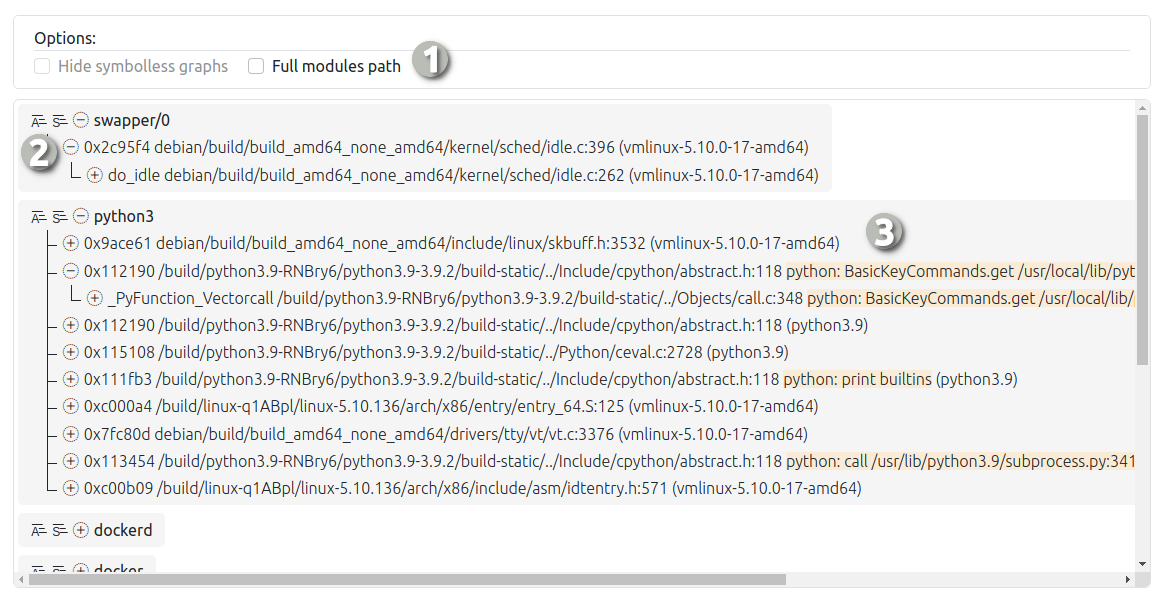
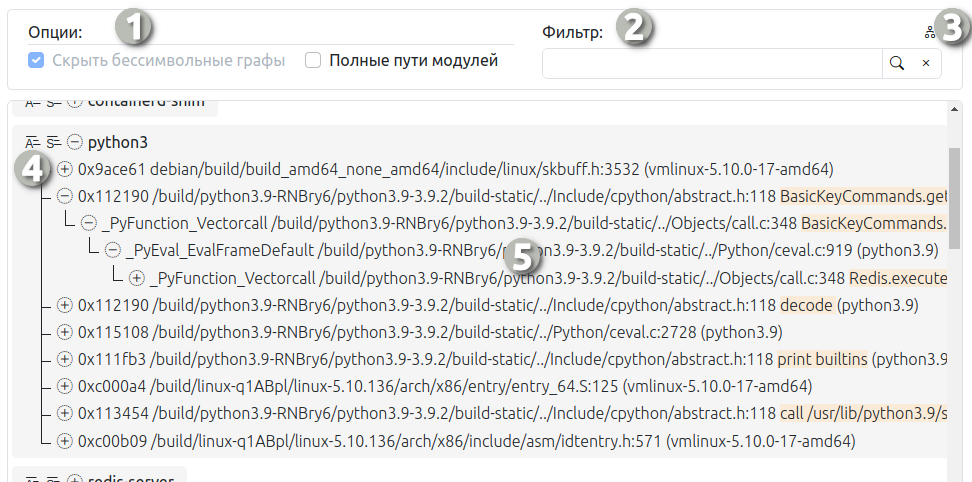
Update 6_snatch.md: call_graph & flame_graph updated

diff --git a/6_snatch.md b/6_snatch.md
@@ -164,15 +164,17 @@
 ### 6.3.5. Графы вызовов
 #### 6.3.5.1. Классический граф вызовов
 
-В процессе первоначальной обработки архива поверхности атаки граф вызовов не создаётся. Чтобы граф вызовов появился в проекте, необходимо нажать на кнопку *Generate* рядом с соответствующим пунктом в меню проекта. Повторное нажатие кнопки до завершения генерации приведет к отмене процесса. По завершении генерации в боковом меню проекта под пунктом *Additional graphs* станет активным пункт *Call-graph* и появится пункт *Python-call-graph* (только при наличии в архиве файла python.log, описано в [граф вызовов python](#python_call_graph)). Для открытия графа вызовов достаточно нажать на данный пункт в меню. После открытия появится новая вкладка с соответствующим названием, а в окне отображения содержимого откроется граф, представленный в виде древовидной структуры:
+В процессе первоначальной обработки архива поверхности атаки граф вызовов не создаётся. Чтобы граф вызовов появился в проекте, необходимо нажать на кнопку *Создать* рядом с соответствующим пунктом в боковом меню. Повторное нажатие кнопки до завершения генерации приведет к отмене процесса. По завершении генерации в боковом меню проекта под пунктом *Дополнительные графы* станет активным пункт *Граф вызовов* и появится пункт *Граф вызовов интерпретаторов* (при наличии в архиве соответствующего лог файла, описано в [граф вызовов интерпретаторов](#interp_call_graph)). Для открытия графа вызовов достаточно нажать на данный пункт в меню. После открытия появится новая вкладка с соответствующим названием, а в окне отображения содержимого откроется граф, представленный в виде древовидной структуры:
 
 <img src=https://raw.githubusercontent.com/ispras/natch/main/images/snatch/snatch_call_graph.png><figcaption>_Граф вызовов_</figcaption>
 
 В данном окне представлены следующие элементы:
 
-1. Чекбоксы опций. *Hide symbolless graphs* прячет из отображаемого графа деревья, не содержащие распознанных символов (если данная опция неактивна, то в текущем проекте все деревья содержат символьную информацию); *Full modules path* задаёт формат отображения имен модулей на графе: сокращенный или полный путь.
-2. Элементы управления графом. Первая кнопка (три горизонтальные черты с буквой "А") раскрывает все ветви графа; кнопка с буквой "S" раскрывает только символизированные ветви. Повторное нажатие кнопки сворачивает граф. Нажатие на кнопки +/- рядом с веткой раскрывает/сворачивает данную ветку в дереве.
-3. Содержимое графа. В корне дерева отображается имя процесса, к которому относится данный граф вызовов. Каждый узел дерева содержит имя вызванной функции (адрес смещения в модуле, при отсутствии символьной информации), путь к файлу исходного кода и строка в файле, относящаяся к началу функции, имя модуля. Синим цветом выделяются функции непосредственно взаимодействовавшие с помеченными данными. При наведении курсора на "синие" функции возникает всплывающая подсказка, содержащая номера строк в исходниках, где происходило взаимодействие с помеченными данным. Бежевым цветом выделяются функции python, вызванные на этом шаге.
+1. Чекбоксы опций. *Скрыть бессимвольные графы* прячет из отображаемого графа деревья, не содержащие распознанных символов (если данная опция неактивна, то в текущем проекте все деревья содержат символьную информацию); *Полные пути модулей* задаёт формат отображения имен модулей на графе: сокращенный или полный путь.
+2. Поле для фильтрации графа. При вводе строки и нажатии на кнопку "лупа" либо клавиши *Enter* происходит фильтрация графа, где заданная строка ищется в полном пути функции, имени модуля и других текстовых параметрах записи. Если запись удалось обнаружить, то на отфильтрованном графе она будет выделена оранжевой рамкой. Если записей, удовлетворяющих условиям фильтра, найдено не было, вместо графа будет выведено сообщение "Элементов, соответствующих фильтру, не найдено". Нажатие на символ "крестик" сбрасывает фильтрацию и возвращает граф к исходному состоянию.
+3. Кнопка включения демонстрации дочерних узлов на отфильтрованном графе. Если этот режим активирован, то для каждого элемента, удовлетворяющего фильтру, будут показаны все дочерние узлы. В противном случае граф будет обрубаться на найденном элементе.
+4. Элементы управления графом. Первая кнопка (три горизонтальные черты с буквой "А") раскрывает все ветви графа; кнопка с буквой "S" раскрывает только символизированные ветви. Повторное нажатие кнопки сворачивает граф. Нажатие на кнопки +/- рядом с веткой раскрывает/сворачивает данную ветку в дереве.
+5. Содержимое графа. В корне дерева отображается имя процесса, к которому относится данный граф вызовов. Каждый узел дерева содержит имя вызванной функции (адрес смещения в модуле, при отсутствии символьной информации), путь к файлу исходного кода и строка в файле, относящаяся к началу функции, имя модуля. Синим цветом выделяются функции непосредственно взаимодействовавшие с помеченными данными. При наведении курсора на "синие" функции возникает всплывающая подсказка, содержащая номера строк в исходниках, где происходило взаимодействие с помеченными данным. Бежевым цветом выделяются функции python, вызванные на этом шаге.
 
 При нажатии на функцию правой кнопкой мыши появляется контекстное меню, из которого можно запустить генерацию вспомогательных данных для [Futag](https://github.com/ispras/Futag), скопировать имя функции и перейти к соответствующей записи в графе вызовов python для "бежевых" функций. Сгенерированные данные для [Futag](https://github.com/ispras/Futag) будут помещены в файл в папке *snatch_directory/fuzzing_targets*.
 
@@ -182,13 +184,13 @@
 
 В данном окне содержатся: имя функции, её опции, стек вызовов вплоть до выбранной функции. Синим на стеке вызовов отображаются функции, взаимодействовавшие с помеченными данными.
 
-#### <a name="python_call_graph"></a>6.3.5.2. Граф вызовов python
+#### <a name="interp_call_graph"></a>6.3.5.2. Граф вызовов интерпретаторов
 
-При построении графа вызовов строится и граф вызовов python, если в архиве содержалась соответствующая информация. Визуально и функционально данный граф повторяет классический граф вызовов:
+При построении графа вызовов строится и граф вызовов интерпретаторов (в настоящее время поддерживается python и ведется разработка поддержки Java), если в архиве содержалась соответствующая информация. Визуально и функционально данный граф повторяет классический граф вызовов:
 
-<img src=https://raw.githubusercontent.com/ispras/natch/main/images/snatch/snatch_python_call_graph.png><figcaption>_Граф вызовов python_</figcaption>
+<img src=https://raw.githubusercontent.com/ispras/natch/main/images/snatch/snatch_interp_call_graph.png><figcaption>_Граф вызовов интерпретаторов_</figcaption>
 
-Из контекстного меню функций, вызываемого правой кнопкой мыши, можно переайти в классический граф вызовов, где будет выбран соответствующий элемент.
+Из контекстного меню функции, вызываемого правой кнопкой мыши, можно перейти в классический граф вызовов, где будет выбран соответствующий элемент.
 
 ### 6.3.6. Флейм граф
 
@@ -200,9 +202,11 @@
 
 1. Выпадающий список построенных флейм графов, сгруппированный по процессам. Графы, относящиеся к пользовательским потокам, помечены словом *user*, выполнявшиеся ядром – *kernel*. При нажатии на пункт списка произойдет открытие соответствующего флейм графа.
 2. Список цветовых схем графа. По умолчанию выбирается схема "warm" с оттенками теплого цвета для обычных функций. Во всех цветовых схемах яркий синий цвет обозначает функции, взаимодействовавшие с помеченными данными.
-3. Кнопки навигации по флейм графу. Используются для перемещения между функциями, работавшими с помеченными данными. Нажатие на кнопку *вниз* делает активным следующую такую функцию, *вверх* – предыдущую, а *Reset zoom* сбрасывает граф к исходному состоянию (активным становится корневой блок)
-4. Список функций, работавших с помеченными данными. В данном списке показано имя функции (либо смещение относительно адреса загрузки модуля, в отсутствии символьной информации) и продолжительность работы функции (синим цветом) в выполненных процессорных инструкциях. При нажатии на пункт в этом списке, соответствующая функция на флейм графе становится активной и для нее вызывается информационный блок.
-5. Флейм граф. В верхней части показано имя открытого флейм графа. Синим цветом на флейм графе отображаются функции, взаимодействовавшие с помеченными данными. При нажатии на любой блок флейм графа он становится активным, т.е. занимает 100% ширины графа, с соответствующим расширением дочерних блоков. Также для выделенной функции будет отображен информационный блок со свойствами этой функции (по аналогии с информационными блоками описаными выше для графа вызовов, графа процессов и т.д.)
+3. Поле поиска по выбранному флейм графу. Поиск производится по строке и сопоставляется с именем функции, если элементы были найдены, то в поле поиска появляется счетчик вида "0/N" (где N - количество найденных совпадений), при этом первый найденный элемент становится активным на графе. Если совпадений не найдено, счетчик будет иметь вид "0/0". Перемещение по найденным элементам можно осуществлять интерфейсными стрелками либо нажатие клавиши *Enter*. Сброс к исходному состоянию происходит по нажатию кнопки "крестик".
+4. Кнопки дополнительных условий поиска.
+5. Кнопки навигации по флейм графу. Используются для перемещения между функциями, работавшими с помеченными данными. Нажатие на кнопку *вниз* делает активным следующую такую функцию, *вверх* – предыдущую, а *Reset zoom* сбрасывает граф к исходному состоянию (активным становится корневой блок)
+6. Список функций, работавших с помеченными данными. В данном списке показано имя функции (либо смещение относительно адреса загрузки модуля, в отсутствии символьной информации) и продолжительность работы функции (синим цветом) в выполненных процессорных инструкциях. При нажатии на пункт в этом списке, соответствующая функция на флейм графе становится активной и для нее вызывается информационный блок.
+7. Флейм граф. В верхней части показано имя открытого флейм графа. Синим цветом на флейм графе отображаются функции, взаимодействовавшие с помеченными данными. При нажатии на любой блок флейм графа он становится активным, т.е. занимает 100% ширины графа, с соответствующим расширением дочерних блоков. Также для выделенной функции будет отображен информационный блок со свойствами этой функции (по аналогии с информационными блоками описаными выше для графа вызовов, графа процессов и т.д.)
 
 ### 6.3.7. Временной граф процессов
 
